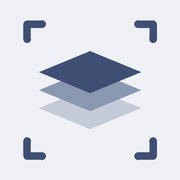
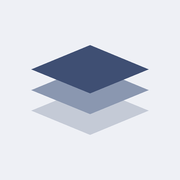
Иконка без уголков рамки (только слои)

diff --git a/CLAUDE.md b/CLAUDE.md
@@ -29,7 +29,7 @@ PWA-фотодневник ремонта: несколько объектов (
 ## Название и бренд
 
 - Рабочее название «Стенограф» (игра слов: стена + фиксировать). **Проверка сентябрь 2026:** в Google Play занято (`ru.stenograph` — клавиатура с распознаванием речи), в App Store свободно, домены stenograf.ru/.app свободны. Вопрос финального имени открыт; запасные: «Ремлог», «ДоПосле», «Renolog».
-- **Иконка (с 2026-10-03): «Слои в скане»** — три изометрических слоя (этапы, `#3f4f73` / `#8a97b0` / `#c4cad6`) в четырёх уголках скан-рамки лидара, фон `#eef0f5`. Выбрана пользователем из 24 набросков (идеи с домом/квартирой он отверг). Исходники: `native/resources/icon-1024.png`, `splash-2732.png` (знак по центру), PWA — `icon.svg`, `icon-maskable.svg`, `apple-touch-icon.png`. Прежняя «дом с объективом» больше не используется. Пользователь просил светлые иконки без стрелок.
+- **Иконка (с 2026-10-03): «Слои в скане» без рамки** — три изометрических слоя (этапы, `#3f4f73` / `#8a97b0` / `#c4cad6`), увеличенные ×1.15, фон `#eef0f5`; уголки скан-рамки пользователь попросил убрать. Выбрана пользователем из 24 набросков (идеи с домом/квартирой он отверг). Исходники: `native/resources/icon-1024.png`, `splash-2732.png` (знак по центру), PWA — `icon.svg`, `icon-maskable.svg`, `apple-touch-icon.png`. Прежняя «дом с объективом» больше не используется. Пользователь просил светлые иконки без стрелок.
 - Палитра приложения: акцент `#d95f18`. **С 2026-09-27 приложение только светлое** (просьба пользователя): тёмная тема убрана, шапка белая с тёмным текстом, в Info.plist `UIUserInterfaceStyle=Light`. 3D-тур в стиле референса пользователя (планировщик с белыми стенами): фон `#e3e7ec` (холодный светло-серый), белые стены с серым верхом-«разрезом» `#6b7178` (пользователь попросил светлее графита) (как у RoomSketcher/Floorplanner — иначе белые стены сливаются с фоном), тень под моделью (ShadowMaterial), полы светлое дерево/светло-серый (не зелёные — просьба пользователя), мягкие тени (PCFSoft), мебель — лавандово-серые коробки (модели мебели пользователь попросил пока не делать).
 
 ## Статус 20 коммерческих идей (сверка с пользователем 2026-09-14)
